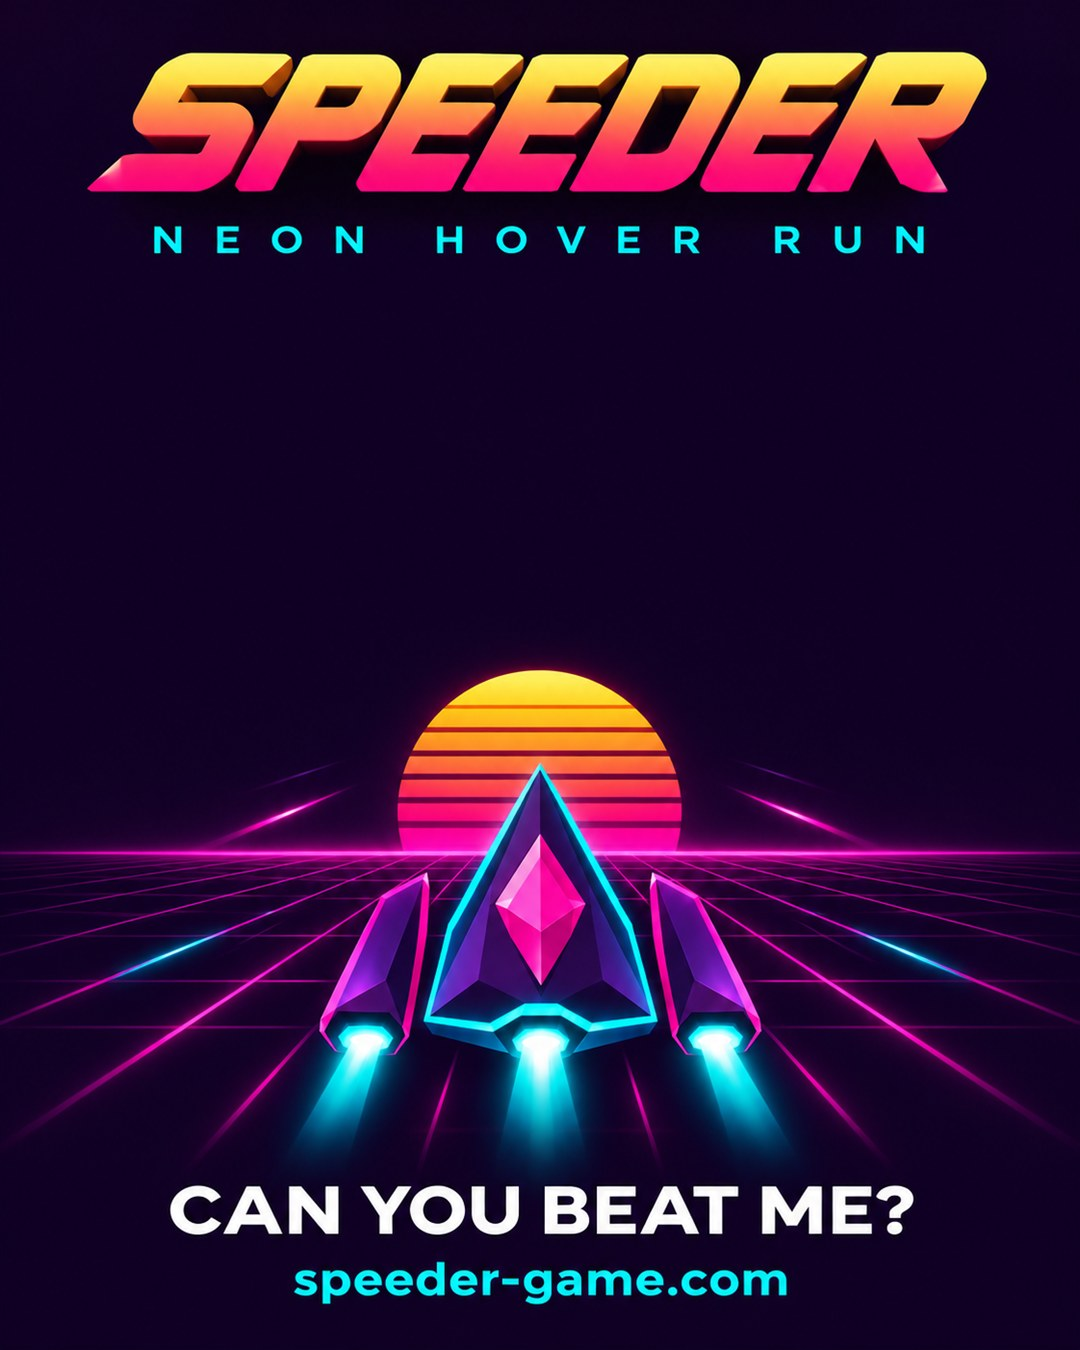
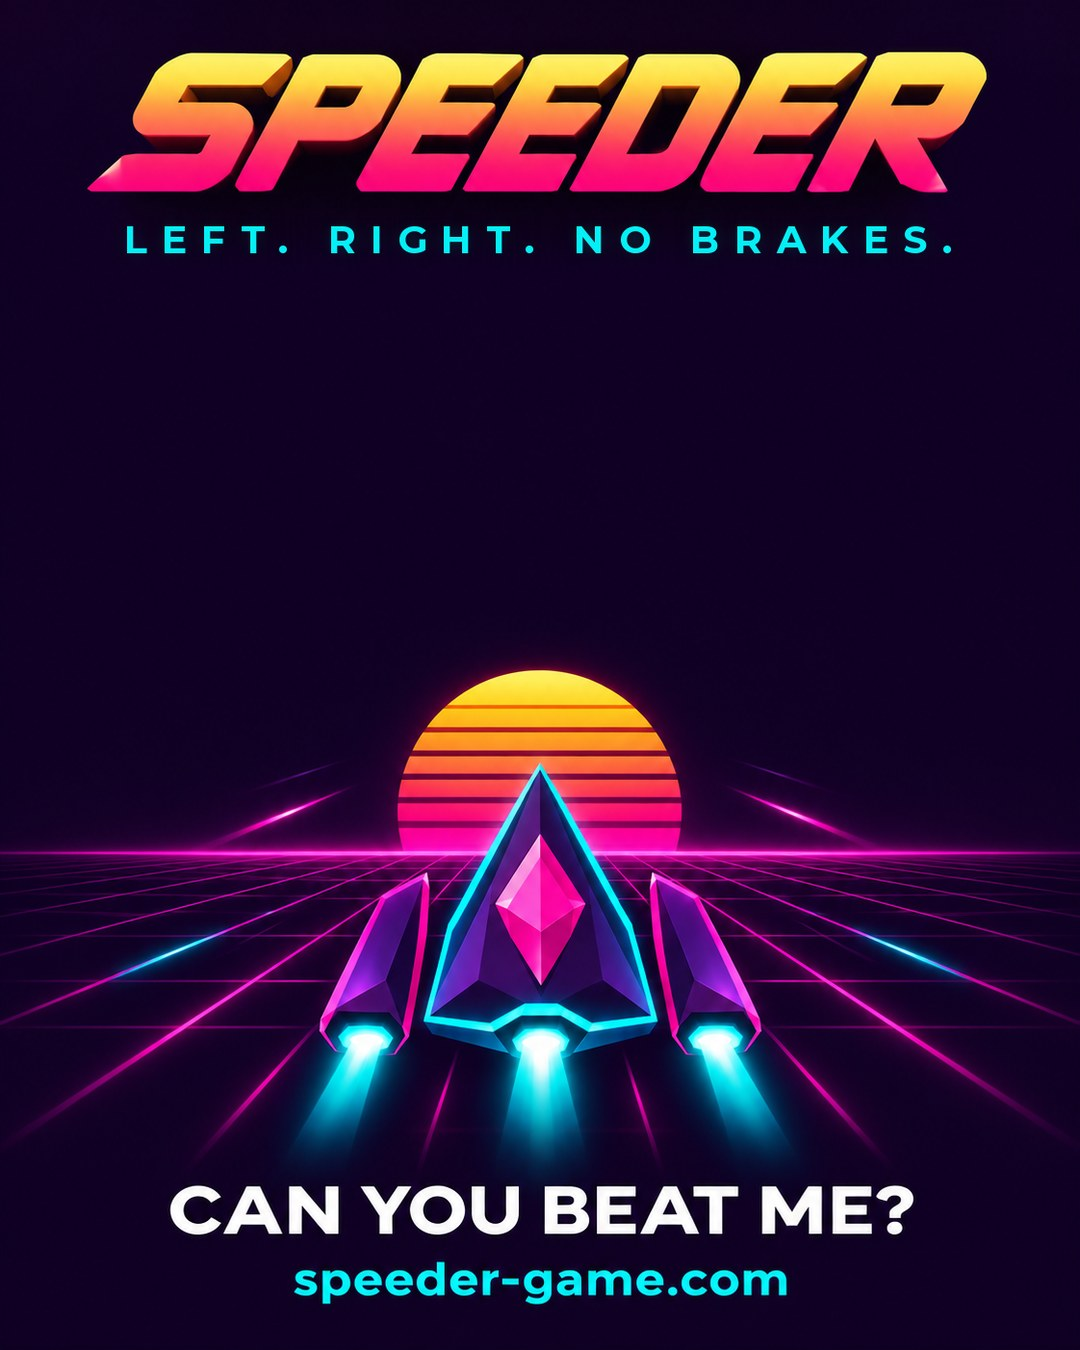
v0.16.1: new tagline, Left. Right. No brakes. (title, link previews, share art)
Claude-Session: https://claude.ai/code/session_01YcKmCXKsjoG2er2KgbLebC

Changed region(s): [[0.5194, 0.1556, 0.8556, 0.1867], [0.3056, 0.1556, 0.4889, 0.1867], [0.0917, 0.1556, 0.275, 0.1867]]

diff --git a/index.html b/index.html
@@ -8,7 +8,7 @@
 <meta name="apple-mobile-web-app-capable" content="yes">
 <meta name="apple-mobile-web-app-status-bar-style" content="black-translucent">
 <meta name="apple-mobile-web-app-title" content="Speeder">
-<meta name="description" content="Neon hover-speeder run. Drag to steer, guns fire on their own.">
+<meta name="description" content="Left. Right. No brakes. A neon hover racer you play in your browser: drag to steer, your guns fire on their own.">
 <title>Speeder</title>
 <link rel="manifest" href="manifest.webmanifest">
 <link rel="icon" type="image/png" sizes="32x32" href="icons/favicon-32.png">
@@ -17,15 +17,15 @@
 <!-- Link previews (iMessage, WhatsApp, Discord, X, Facebook...) -->
 <meta property="og:type" content="website">
 <meta property="og:site_name" content="Speeder">
-<meta property="og:title" content="Speeder: neon hover run">
+<meta property="og:title" content="Speeder: Left. Right. No brakes.">
 <meta property="og:description" content="Drag to steer, dodge at 600+ km/h, beat your friends' scores. Free, in your browser.">
 <meta property="og:url" content="https://speeder-game.com/">
 <meta property="og:image" content="https://speeder-game.com/social/share-wide.jpg">
 <meta property="og:image:width" content="1200">
 <meta property="og:image:height" content="630">
-<meta property="og:image:alt" content="Speeder: a neon hover ship racing across a synthwave grid toward a striped sun">
+<meta property="og:image:alt" content="Speeder: Left. Right. No brakes. A neon hover ship racing across a synthwave grid toward a striped sun">
 <meta name="twitter:card" content="summary_large_image">
-<meta name="twitter:title" content="Speeder: neon hover run">
+<meta name="twitter:title" content="Speeder: Left. Right. No brakes.">
 <meta name="twitter:description" content="Drag to steer, dodge at 600+ km/h, beat your friends' scores. Free, in your browser.">
 <meta name="twitter:image" content="https://speeder-game.com/social/share-wide.jpg">
 <link rel="apple-touch-icon" href="icons/apple-touch-icon.png">
@@ -135,7 +135,7 @@
   /* the title screen's logo (v0.16): the brand artwork, cut out of its background */
   .logo-img { margin: 0; width: clamp(240px, 80vw, 500px); line-height: 0; }
   @media (max-height: 740px) { #title .logo-img { width: min(70vw, 320px); } }
-  #title .tag { margin-top: 2px; font-weight: 700; text-shadow: 0 0 8px var(--cyan), 0 1px 3px rgba(0, 0, 0, 0.9); }
+  #title .tag { margin-top: 2px; letter-spacing: 0.32em; margin-right: -0.32em; font-weight: 700; text-shadow: 0 0 8px var(--cyan), 0 1px 3px rgba(0, 0, 0, 0.9); }
   .logo-img img {
     width: 100%; height: auto; display: block;
     filter: drop-shadow(0 4px 10px rgba(6, 0, 18, 0.65)) drop-shadow(0 0 22px rgba(255, 43, 214, 0.35));
@@ -713,7 +713,7 @@
 
 <div id="title" class="overlay">
   <h1 class="logo-img"><picture><source srcset="icons/logo.webp" type="image/webp"><img src="icons/logo.png" alt="Speeder" width="900" height="142" decoding="async"></picture></h1>
-  <div class="tag">Neon hover run</div>
+  <div class="tag">Left. Right. No brakes.</div>
   <div class="how hidden" id="titleTips">
     <div><b>Drag</b> anywhere to steer</div>
     <div>Your guns fire <b>on their own</b></div>
@@ -959,7 +959,7 @@ const JUMP_G = 16;           // gravity while airborne
 const JUMP_VY = (JUMP_G * JUMP_T * JUMP_T / 2 - RAMP_H) / JUMP_T;   // launch speed that lands after JUMP_T
 const UNIT_M = 1.4;         // one world unit, in "meters", for display only
 const FONT = 'Orbitron, system-ui, -apple-system, sans-serif';
-const VERSION = '0.16.0';
+const VERSION = '0.16.1';
 
 // Game modes (v0.8). CLASSIC is the original endless run, exactly as it was in v0.7.7.
 // WARP RUN is the new one: five worlds with their own look and hazards, a warp gate
@@ -11393,7 +11393,7 @@ $('titleBoardBtn').addEventListener('click', () => openPanel('board'));
 // "Share" on the title screen: an invite to the game itself (the link preview shows the artwork).
 async function shareGame() {
   const url = shareUrl();
-  const text = 'Try Speeder: a neon hover racer you play right in your browser. Drag to steer, dodge at 600+ km/h.';
+  const text = 'Try Speeder. Left. Right. No brakes. A neon hover racer you play right in your browser.';
   const status = $('titleShareStatus');
   const say = (msg) => {
     status.textContent = msg; status.classList.remove('hidden');

diff --git a/sw.js b/sw.js
@@ -1,6 +1,6 @@
 // Speeder service worker: lets the game load offline once it has been opened.
 // When you change the game, bump CACHE so phones pick up the new files.
-const CACHE = 'speeder-v0.16.0';
+const CACHE = 'speeder-v0.16.1';
 const ASSETS = [
   './',
   './index.html',

diff --git a/PROJECT_CONTEXT.md b/PROJECT_CONTEXT.md
@@ -26,7 +26,7 @@ vote. **Read `LAB.md` before adding or changing an experiment.**
 
 | Field | Value |
 |-------|-------|
-| **Current Version** | v0.16.0 |
+| **Current Version** | v0.16.1 |
 | **Phase** | Prototype / Exploration (friends playing; Warp Run reworked in v0.9 after Adrian's first playtest, needs another; the Lab added in v0.10; its experiments, JUMP, SKY RAMPS and HYPERLANE, and its test setup are untested on a phone) |
 | **Started** | 2026-10-30 |
 | **Last Updated** | 2026-11-16 |
@@ -274,6 +274,7 @@ Warp Run hooks: `SPEEDER.setMode('warp')`, `SPEEDER.WP` (run state: `loop`, `sec
 | Shooting | Automatic, forward only | Keeps the game to one input; aiming *is* steering, which creates tension with dodging. |
 | Structure | Endless run, rising speed | Best fit for quick phone sessions and chasing a high score. |
 | Look | Neon synthwave | Adrian's pick. Glowing grid, striped sun, wireframe mountains. |
+| Tagline (v0.16.1) | "Left. Right. No brakes." | Adrian's pick: says the one control (side to side) and the speed. He liked "One thumb. No brakes." but not the word thumb. |
 | Power-ups | Paired gates, choose by lane | Adds a real decision without another button. Claude suggested it, Adrian approved. |
 | Rendering | Canvas 2D pseudo-3D, no three.js | Light, fast on phones, nothing to install, suits the retro look. |
 | Gate preview banner | HUD chips at top | At speed, gate labels are only readable late, so the banner lets you choose early. |
@@ -378,8 +379,8 @@ See `CHANGELOG.md` for a full session-by-session history.
 **Where things stand (after v0.16.0, 2026-11-16):**
 - Title logo is now the brand artwork (`icons/logo.webp`). Panels have a pinned Back button.
   Flight School can be started from the pause menu's How to play (two taps: it ends the run).
-- Tagline: Adrian asked for better options than "Neon hover run" (see the session). The brand
-  artwork (share card background, link preview image) has "NEON HOVER RUN" painted in.
+- Tagline is now **"Left. Right. No brakes."** (Adrian's pick, v0.16.1): title screen, page and
+  link-preview text, manifest, and repainted into the share card and link preview artwork.
 
 **Earlier (after v0.15.0, 2026-11-16):**
 - **Flight School** added: a hands-on tutorial (screen tour + practice of every mechanic, all five

diff --git a/CHANGELOG.md b/CHANGELOG.md
@@ -4,6 +4,21 @@ All notable changes are documented here, session by session. Newest entries go a
 
 ---
 
+## [v0.16.1] — 2026-11-16
+
+### Session 15f — New tagline: "Left. Right. No brakes."
+
+Adrian picked it from a few options (he liked "One thumb. No brakes." but not the word thumb).
+
+- Title screen tagline, page description, link preview title and description, install
+  description, and the Share invite text.
+- The artwork had "NEON HOVER RUN" painted in: repainted to the new tagline in matching lettering
+  (Montserrat Bold, the same cyan and glow) on the score card background (`social/card-bg.jpg`) and
+  the link preview image (`social/share-wide.jpg`). The originals stay in Adrian's brand zip.
+- Note: apps like iMessage keep old link previews for a while.
+
+---
+
 ## [v0.16.0] — 2026-11-16
 
 ### Session 15e — New logo, easier Back, Flight School from the pause menu
